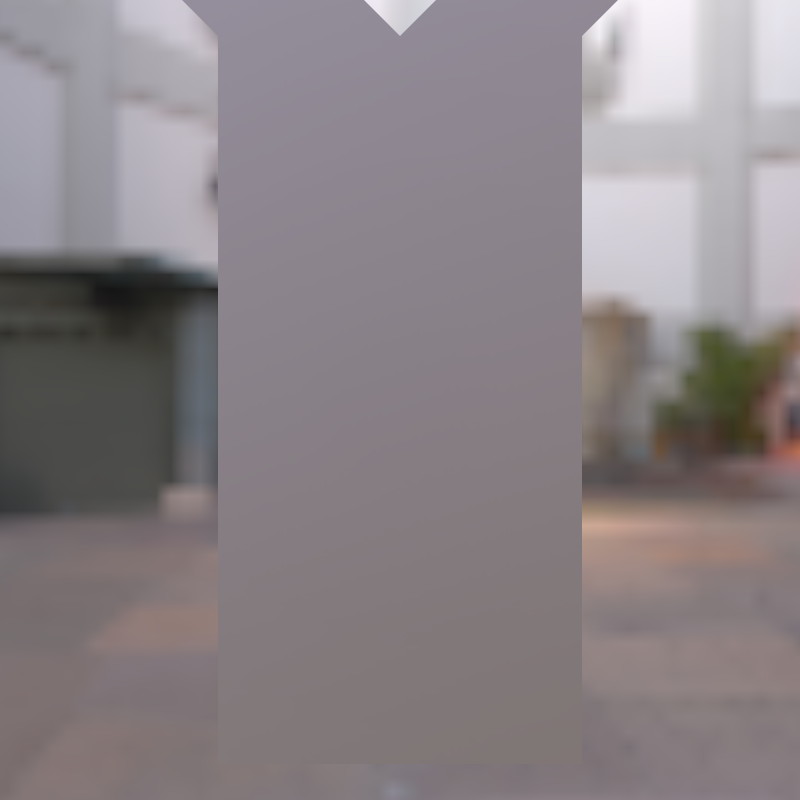
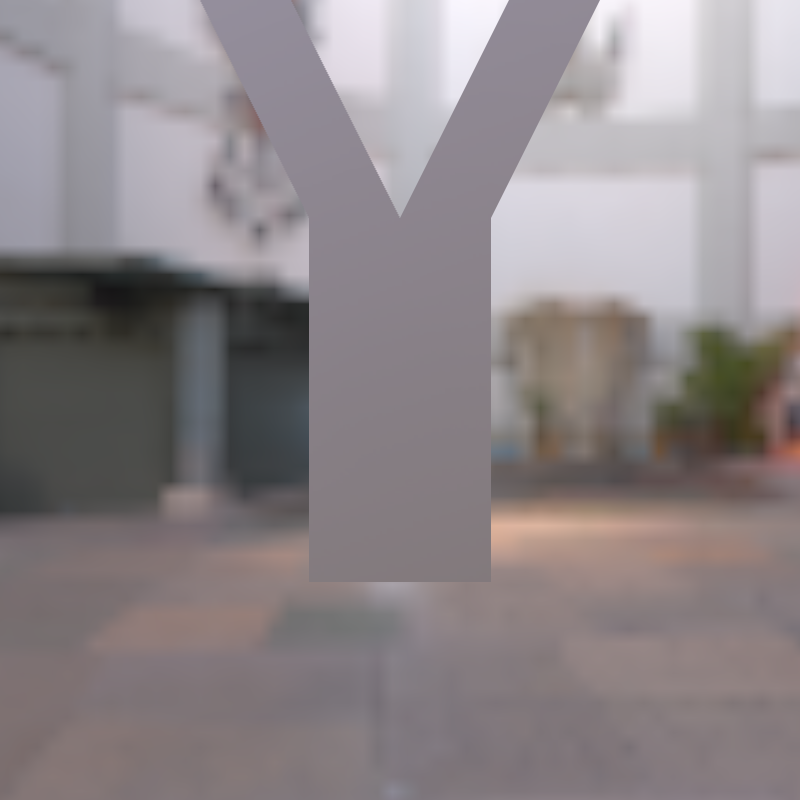
Reduce the size of the bottom part of the Y model

diff --git a/Source/ModelGroup_SkinY.cs b/Source/ModelGroup_SkinY.cs
@@ -26,21 +26,24 @@ namespace AssetGenerator
                                     {
                                         Positions = new List<Vector3>()
                                         {
-                                            new Vector3(-0.25f,-0.50f, 0.0f),
-                                            new Vector3( 0.25f,-0.50f, 0.0f),
-                                            new Vector3(-0.25f, 0.00f, 0.0f),
-                                            new Vector3( 0.25f, 0.00f, 0.0f),
+                                            new Vector3(-0.125f,-0.25f, 0.0f),
+                                            new Vector3( 0.125f,-0.25f, 0.0f),
+                                            new Vector3(-0.125f, 0.00f, 0.0f),
+                                            new Vector3( 0.125f, 0.00f, 0.0f),
+                                            new Vector3(-0.125f, 0.25f, 0.0f),
+                                            new Vector3( 0.125f, 0.25f, 0.0f),
+
+                                            new Vector3( 0.00f, 0.25f, 0.0f),
+
                                             new Vector3(-0.25f, 0.50f, 0.0f),
-                                            new Vector3( 0.25f, 0.50f, 0.0f),
-                                            new Vector3( 0.00f, 0.50f, 0.0f),
-                                            new Vector3(-0.50f, 0.75f, 0.0f),
+                                            new Vector3(-0.125f, 0.50f, 0.0f),
+                                            new Vector3(-0.375f, 0.75f, 0.0f),
                                             new Vector3(-0.25f, 0.75f, 0.0f),
-                                            new Vector3(-0.75f, 1.00f, 0.0f),
-                                            new Vector3(-0.50f, 1.00f, 0.0f),
+
+                                            new Vector3( 0.125f, 0.50f, 0.0f),
+                                            new Vector3( 0.25f, 0.50f, 0.0f),
                                             new Vector3( 0.25f, 0.75f, 0.0f),
-                                            new Vector3( 0.50f, 0.75f, 0.0f),
-                                            new Vector3( 0.50f, 1.00f, 0.0f),
-                                            new Vector3( 0.75f, 1.00f, 0.0f),
+                                            new Vector3( 0.375f, 0.75f, 0.0f),
                                         },
                                         Indices = new List<int>
                                         {
@@ -75,18 +78,18 @@ namespace AssetGenerator
                         new Runtime.Node
                         {
                             Name = "rootNode",
-                            Translation = new Vector3(0.0f, 0.5f, 0.0f),
+                            Translation = new Vector3(0.0f, 0.25f, 0.0f),
                             Children = new[]
                             {
                                 new Runtime.Node
                                 {
                                     Name = "midLeftNode",
-                                    Translation = new Vector3(-0.375f, 0.25f, 0.0f),
+                                    Translation = new Vector3(-0.1875f, 0.25f, 0.0f),
                                 },
                                 new Runtime.Node
                                 {
                                     Name = "midRightNode",
-                                    Translation = new Vector3(0.375f, 0.25f, 0.0f),
+                                    Translation = new Vector3(0.1875f, 0.25f, 0.0f),
                                 }
                             },
                         },
@@ -102,17 +105,17 @@ namespace AssetGenerator
                 {
                     new Runtime.SkinJoint
                     (
-                        inverseBindMatrix: new Matrix4x4(1,0,0,0,0,1,0,0,0,0,1,0,0,-0.5f,0,1),
+                        inverseBindMatrix: new Matrix4x4(1,0,0,0,0,1,0,0,0,0,1,0,0,-0.25f,0,1),
                         node: rootNode
                     ),
                     new Runtime.SkinJoint
                     (
-                        inverseBindMatrix: Matrix4x4.CreateTranslation(new Vector3(0.375f, -0.75f, 0.0f)),
+                        inverseBindMatrix: Matrix4x4.CreateTranslation(new Vector3(0.1875f, -0.5f, 0.0f)),
                         node: midLeftNode
                     ),
                     new Runtime.SkinJoint
                     (
-                        inverseBindMatrix: Matrix4x4.CreateTranslation(new Vector3(-0.375f, -0.75f, 0.0f)),
+                        inverseBindMatrix: Matrix4x4.CreateTranslation(new Vector3(-0.1875f, -0.5f, 0.0f)),
                         node: midRightNode
                     )
                 };
